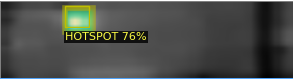
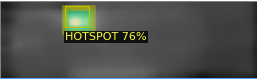
Update Analyst-PV

diff --git a/projects/analyst-pv/index.html b/projects/analyst-pv/index.html
@@ -132,7 +132,7 @@
             </span>
             <span class="reading-time">
               <i class="fas fa-clock"></i>
-              3-minute read
+              4-minute read
             </span>
           </div>
           
@@ -150,22 +150,29 @@
 <li>Detection of solar panels using thermal images</li>
 <li>Detection and classification of anomalies using fusion of RGB and thermal images</li>
 <li>Determination of the root cause of the defects using fusion of RGB and thermal images</li>
+<li>Determination of the shading profile</li>
 </ol>
 <h1 id="1-registration-of-rgb-and-thermal-imagery">1. Registration of RGB and thermal imagery</h1>
 <p>The first step in the process consists of aligning the RGB and thermal images, a procedure also known as registration. Doing so, we obtain for every spatial unit visual as well as thermal information, which can be exploited in the following steps of detecting anomalies as well as their root causes.</p>
 <p><img src="../../img/analyst-pv/thermal-rgb-registration.png" alt="RGB orthomosaic"></p>
 <p><em>Figure 1: An RGB orthophoto (left) overlaid with the thermal orthophoto (right).</em></p>
 <h1 id="2-detection-of-solar-panels-using-thermal-images">2. Detection of solar panels using thermal images</h1>
-<p>The detection of solar panels can easily be conducted using thermal images as the borders of solar panels are often colder than the panels themselves and thus appear darker in those images. We have developed two different techniques to detect solar panels in thermal images.</p>
-<p>The first technique is based on a classical machine learning approach. To that end, we first conduct a preprocessing of the images, involving a gamma correction to enhance the contrast and morphological operations to make the edges of the solar panels more salient. Next, we use thresholding and contour extraction to obtain segments of potential solar panels that we eventually evaluate for shape and size. Finally, we compute a handcrafted feature vector for the candidate panels and train a support vector machine to differentiate between true solar panels and other structures.</p>
+<p>The detection of solar panels can easily be conducted using thermal images as the borders of solar panels are often colder than the panels themselves and thus appear darker in thermal images. We have developed two different techniques to detect solar panels in thermal images.</p>
+<p>One technique is based on a classical machine learning approach. First we conduct a preprocessing of the images, involving a gamma correction to enhance the contrast and morphological operations to make the edges of the solar panels more salient. Next, we use thresholding and contour extraction to obtain segments of potential solar panels that we eventually evaluate for shape and size. Finally, we compute a feature vector based on appearance and shape for each candidate panels and train a support vector machine to differentiate between true solar panels and other structures.</p>
 <p>This first technique allows us to create a large dataset of solar panels, which we use in a our second, deep learning based technique. We trained a Mask R-CNN network using images that were subjected to a contrast enhancement and a bilateral filter. The results were satisfying but not 100% perfect in complex circumstances. In the images below, three different  challenges are depicted: strong sun reflections, power lines casting shadows on the solar panels and elements with a similar structure as solar panels.</p>
 <p><img src="../../img/analyst-pv/deep-learning.png" alt="Panel detection"></p>
+<p>However, with the knowledge that solar panels always occur in solar panel banks or regular grids, we can infer the location of missing panels. When a &lsquo;missing&rsquo; panel is detected, we still need to verify whether it is not a real missing panel, which would be classified as an &lsquo;anomaly&rsquo;. Below an image is depicted with the output of our final algorithm.</p>
+<p><img src="../../img/analyst-pv/final-panel-detector.png" alt="Panel detection"></p>
 <h1 id="3-detection-and-classification-of-anomalies">3. Detection and classification of anomalies</h1>
-<p>Once we know the precise location of the solar panels in the images, the anomalies can be more easily detected as the search for anomalies is restricted to the specific region of the solar panel in the thermal image.</p>
+<p>Once we know the precise location of the solar panels in the images, the anomalies can be more easily detected as the search for anomalies is restricted to the specific region of the solar panel in the thermal image. Below the detection of a hotspot within a solar panels is depicted.</p>
+<p><img src="../../img/analyst-pv/hotspot.png" alt="Anomaly detection"></p>
 <h1 id="4-determination-of-the-root-cause-of-the-defects">4. Determination of the root cause of the defects</h1>
 <p>The final step of the analysis is to determine the root cause of the defect. Among the possible causes for hotspots are soiling, vegetation, corrosion, shading and bird poo or other &lsquo;droppings&rsquo;. The cause can also be a mechanical problem, e.g. an issue with a diode or junction box. Below there are two examples.</p>
 <p><img src="../../img/analyst-pv/hotspot-vegetation.png" alt="Root cause of defect"></p>
 <p><img src="../../img/analyst-pv/hotspot-dropping.png" alt="Root cause of defect"></p>
+<h1 id="5-determination-of-the-shading-profile">5. Determination of the shading profile</h1>
+<p>The final step in the pipeline is to determine the shading profile of the PV plant. By modelling which parts of the solar plant are shaded during the entire year, we can compare the true output of the respective solar bank or string with the expected power output. In case both values do not match, we can deduce that an anomaly should be present. Below is an animation of the shading profile of the power plant on top of the SB Logistics site in Oudenaarde, Belgium.</p>
+<p><img src="../../img/analyst-pv/shading-sblogistics.gif" alt="Shading profile"></p>
 
       </div>
 
@@ -210,7 +217,9 @@
       
         ©
         
-        2020
+          2020 -
+        
+        2021
          Michiel Vlaminck 
       
       

diff --git a/about/index.html b/about/index.html
@@ -146,7 +146,9 @@ I received my MSc degree in Computer Science Engineering in June 2013 and my PhD
       
         ©
         
-        2020
+          2020 -
+        
+        2021
          Michiel Vlaminck 
       
       

diff --git a/posts/demo-itf-2018/index.html b/posts/demo-itf-2018/index.html
@@ -193,7 +193,9 @@ Compared to last year, we improved the rover by replacing the raspberry pi by an
       
         ©
         
-        2020
+          2020 -
+        
+        2021
          Michiel Vlaminck 
       
       

diff --git a/posts/house-gillet/index.html b/posts/house-gillet/index.html
@@ -202,7 +202,9 @@ The house is extraordinary as it was entirely built using shotcrete - also known
       
         ©
         
-        2020
+          2020 -
+        
+        2021
          Michiel Vlaminck 
       
       

diff --git a/posts/invited-speaker-mpi/index.html b/posts/invited-speaker-mpi/index.html
@@ -191,7 +191,9 @@ In my presentation I give an overview of the SLAM problem and its main challenge
       
         ©
         
-        2020
+          2020 -
+        
+        2021
          Michiel Vlaminck 
       
       

diff --git a/posts/phd-defense/index.html b/posts/phd-defense/index.html
@@ -194,7 +194,9 @@ Due to the COVID-19 measures, I was obligated to do defense remotely, from home.
       
         ©
         
-        2020
+          2020 -
+        
+        2021
          Michiel Vlaminck 
       
       

diff --git a/posts/presentation-crv-2018/index.html b/posts/presentation-crv-2018/index.html
@@ -192,7 +192,9 @@ During the conference dinner in the evening, I witnessed how AI pioneer Prof. Ri
       
         ©
         
-        2020
+          2020 -
+        
+        2021
          Michiel Vlaminck 
       
       

diff --git a/posts/visit-mica-2015/index.html b/posts/visit-mica-2015/index.html
@@ -192,7 +192,9 @@ The goal in those projects is to build a system to improve the mobility of visua
       
         ©
         
-        2020
+          2020 -
+        
+        2021
          Michiel Vlaminck 
       
       

diff --git a/projects/comp4drones/index.html b/projects/comp4drones/index.html
@@ -197,7 +197,9 @@ My work in the project focuses on the use case of inspection of critical infrast
       
         ©
         
-        2020
+          2020 -
+        
+        2021
          Michiel Vlaminck 
       
       

diff --git a/publications/index.html b/publications/index.html
@@ -186,7 +186,9 @@ Scientific journals   J.J. Vega Díaz, M. Vlaminck, D. Lefkaditis, S.A. Orjuela 
       
         ©
         
-        2020
+          2020 -
+        
+        2021
          Michiel Vlaminck 
       
       

diff --git a/teaching/index.html b/teaching/index.html
@@ -151,7 +151,9 @@ Computer graphics The course computer graphics (ECTS-card), lectured by prof. Al
       
         ©
         
-        2020
+          2020 -
+        
+        2021
          Michiel Vlaminck 
       
       

diff --git a/404.html b/404.html
@@ -133,7 +133,9 @@
       
         ©
         
-        2020
+          2020 -
+        
+        2021
          Michiel Vlaminck 
       
       
